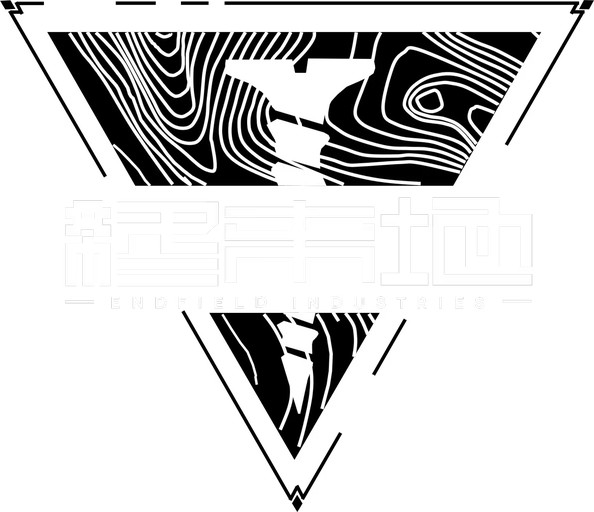
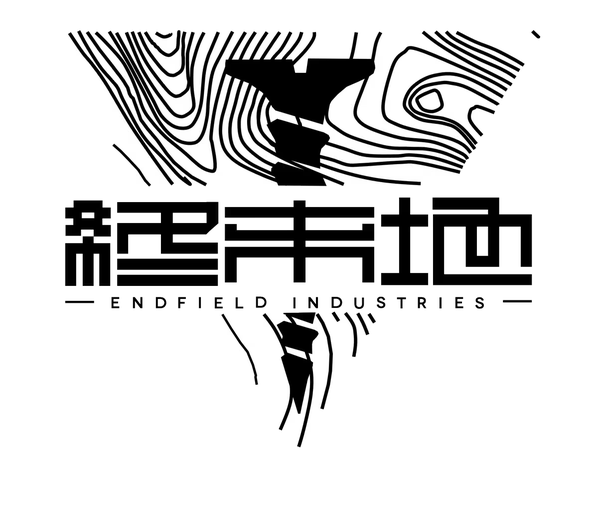
Swap the two brand-mark assets to the sidebars they belong on
The mark rendered in both schemes but the wordmark sank into the background in
both: on the pale sidebar the white half of the lockup vanished, on the charcoal
one the black half did.

The supplied art is duotone and it is the white half that carries it - the
crest's contour lines and the 终末地 wordmark are white paint - so the art as
supplied is drawn for a dark surface. It was being used on the light one.

Light sidebar now gets the inverted paint (dark line work, dark wordmark) and the
dark sidebar gets the art untouched. Measured on the wordmark band: the file used
on the pale sidebar is 22707 dark / 0 light pixels, the one used on charcoal is
0 dark / 22707 light. tools/check_brand_lockup.py asserts that, because getting
it backwards is invisible until you read the wordmark.

diff --git a/client/theme.css b/client/theme.css
@@ -941,12 +941,18 @@ html[data-ef-brand='on'] [data-slot='sidebar.brand.name'] {
 }
 
 /* The mark is the supplied Endfield lockup itself, not a redrawn stand-in. It
-   is duotone — 49% of its opaque pixels are black and 46% are white — so one
-   file cannot serve both sidebars: on the pale fill its white half vanishes, on
-   the charcoal fill its black half does. Hence two assets, the second being the
-   same art with the paint inverted and the holes left as holes. At this size the
-   wordmark inside the lockup is not readable and does not need to be; it reads
-   as the crest-over-triangle silhouette next to the name that spells it out. */
+   is duotone — 49% of its opaque pixels are black and 46% are white — and it is
+   the white half that carries it: the crest's contour lines and the `终末地`
+   wordmark are white paint. So the supplied art is drawn for a *dark* surface,
+   and one file cannot serve both sidebars:
+
+     -dark-bg   the art untouched         → the charcoal sidebar
+     -light-bg  black and white swapped   → the pale sidebar
+
+   Getting them the wrong way round is not obvious: the mark still renders and
+   the silhouettes still read — only the wordmark sinks into the background. At
+   this size the wordmark is not readable anyway and does not need to be; it
+   reads as the crest-over-triangle shape next to the name that spells it out. */
 .ef-brand__mark {
   display: inline-block;
   flex: none;
